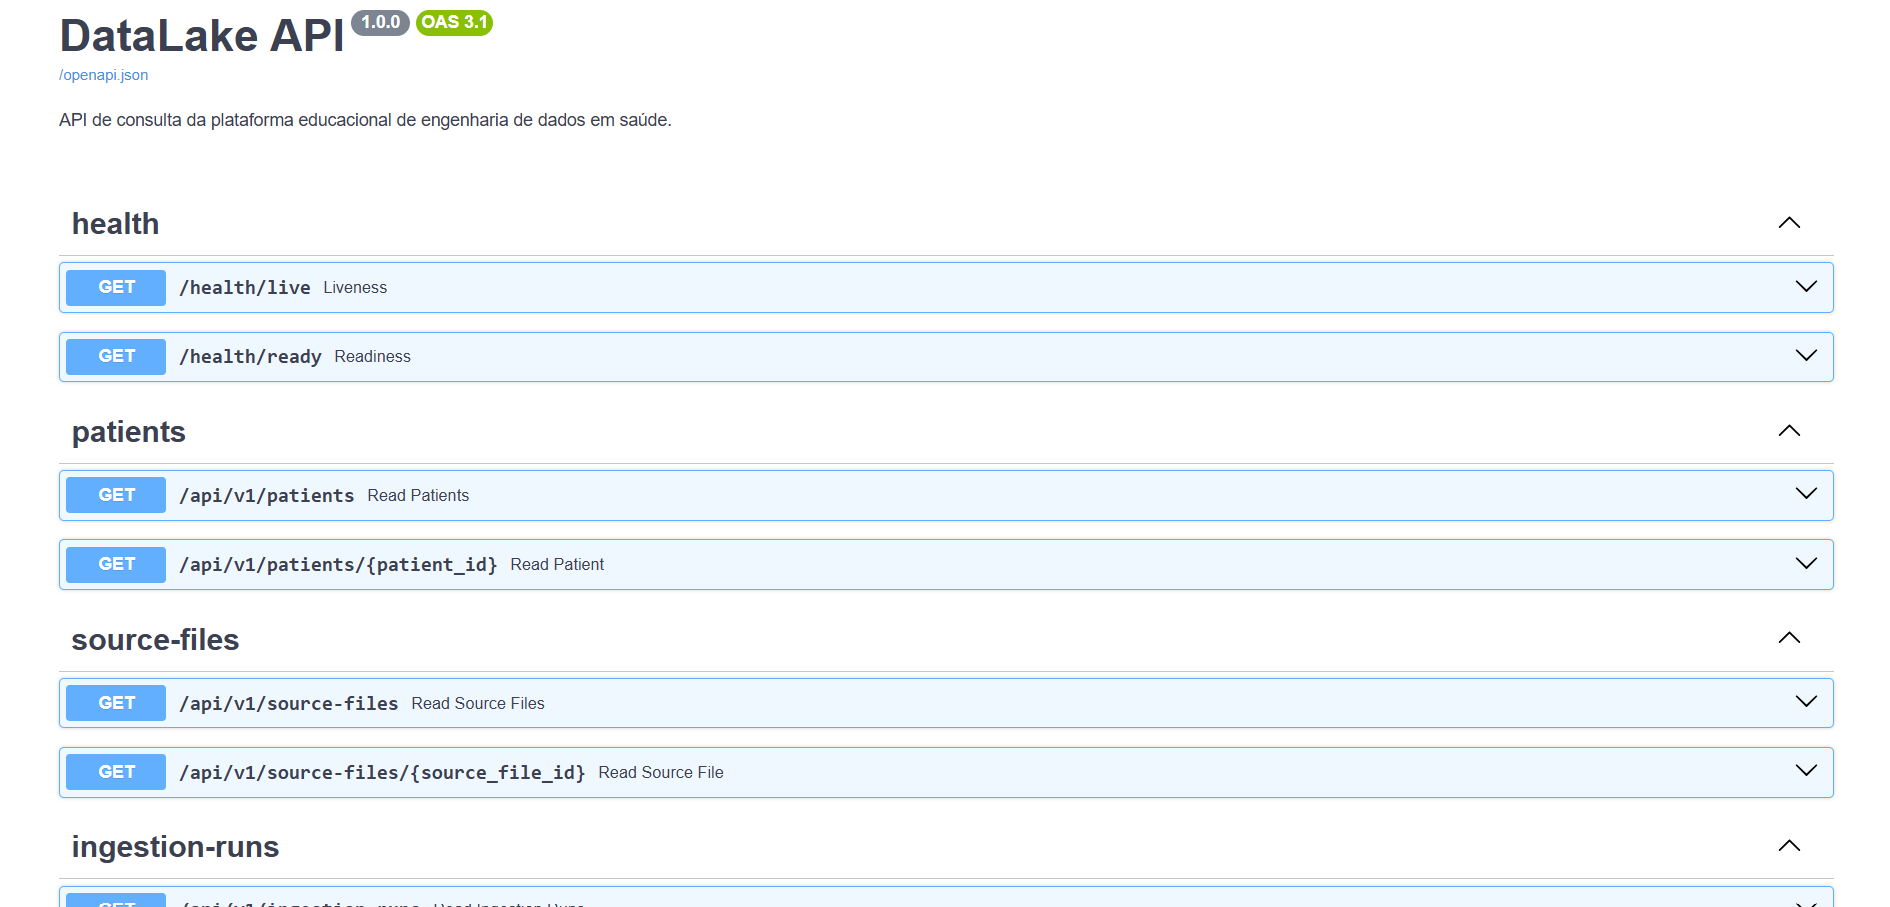
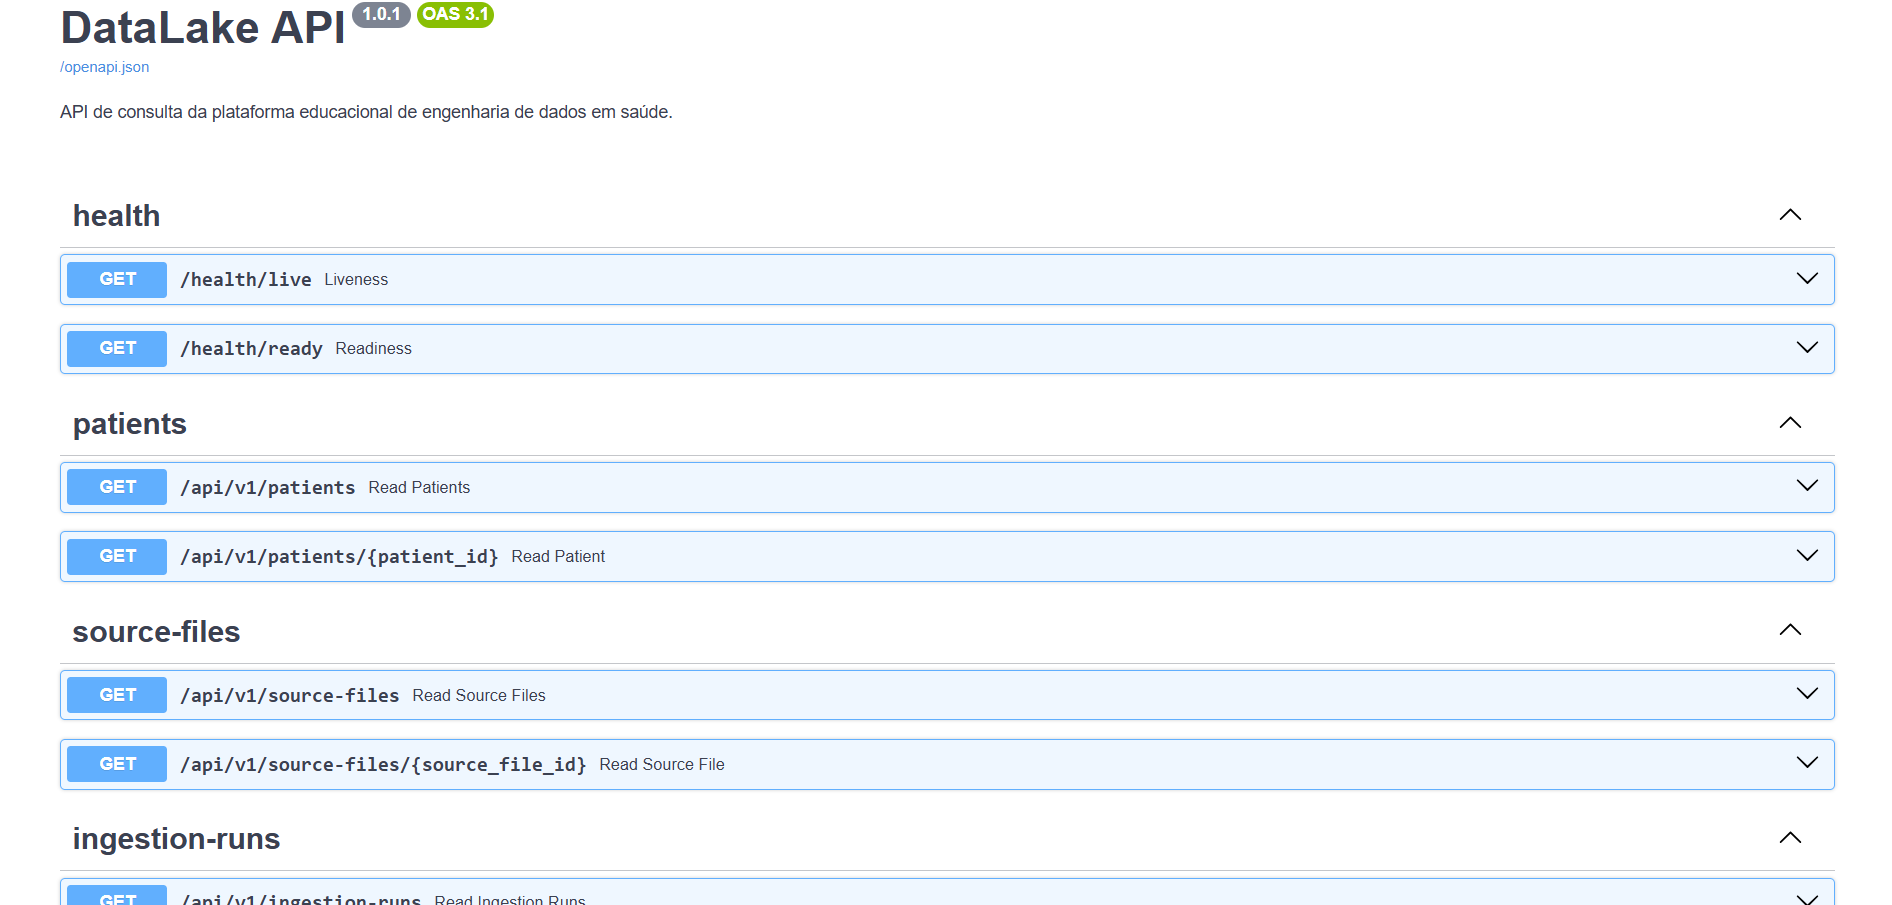
fix: finalize DataLake v1.0.1 maintenance

diff --git a/tests/conftest.py b/tests/conftest.py
@@ -16,7 +16,7 @@ from alembic import command
 PROJECT_ROOT = Path(__file__).resolve().parents[1]
 
 
-class TestDatabaseSettings(BaseSettings):
+class DatabaseTestSettings(BaseSettings):
     """Configurações exclusivas do banco de testes."""
 
     model_config = SettingsConfigDict(
@@ -46,8 +46,8 @@ class TestDatabaseSettings(BaseSettings):
 
 
 @pytest.fixture(scope="session")
-def test_database_settings() -> TestDatabaseSettings:
-    settings = TestDatabaseSettings()
+def test_database_settings() -> DatabaseTestSettings:
+    settings = DatabaseTestSettings()
 
     database_name = settings.postgres_db.lower()
 
@@ -62,7 +62,7 @@ def test_database_settings() -> TestDatabaseSettings:
 
 @pytest.fixture(scope="session")
 def test_engine(
-    test_database_settings: TestDatabaseSettings,
+    test_database_settings: DatabaseTestSettings,
 ) -> Iterator[Engine]:
     engine = create_engine(
         test_database_settings.database_url,

diff --git a/tests/migrations/test_migrations.py b/tests/migrations/test_migrations.py
@@ -12,7 +12,7 @@ from sqlalchemy import (
 
 from alembic import command
 from tests.conftest import (
-    TestDatabaseSettings,
+    DatabaseTestSettings,
 )
 
 PROJECT_ROOT = Path(__file__).resolve().parents[2]
@@ -21,7 +21,7 @@ PROJECT_ROOT = Path(__file__).resolve().parents[2]
 @pytest.mark.migration
 @pytest.mark.integration
 def test_migrations_upgrade_downgrade_and_upgrade(
-    test_database_settings: TestDatabaseSettings,
+    test_database_settings: DatabaseTestSettings,
 ) -> None:
     database_name = f"datalake_migration_{uuid4().hex[:12]}"
 

diff --git a/README.md b/README.md
@@ -202,11 +202,12 @@ Os relatórios locais são gravados em `data/rejected`, e os problemas persistid
 
 A API é somente leitura e publica contratos tipados, validação de parâmetros, paginação, filtros e respostas de erro padronizadas.
 
-Documentação interativa:
+### Swagger UI
 
-A API disponibiliza documentação interativa por meio do Swagger UI.
+A API possui documentação interativa gerada automaticamente pelo FastAPI.
 
-- ![Swagger UI da API DataLake v1.0.0](docs/images/swagger-ui.png)
+![Swagger UI do DataLake](docs/images/swagger-ui.png)
+
 - [ReDoc](http://localhost:8000/redoc);
 - [OpenAPI](http://localhost:8000/openapi.json).
 

diff --git a/CHANGELOG.md b/CHANGELOG.md
@@ -13,6 +13,19 @@ Todas as alterações relevantes do DataLake são registradas neste arquivo.
 - observabilidade;
 - processamento assíncrono.
 
+## [1.0.1] — 2026
+
+### Corrigido
+
+- atualização de `actions/upload-artifact` para a versão 7;
+- remoção do aviso de coleta da classe auxiliar de configuração do Pytest;
+- atualização da evidência visual da Swagger UI.
+
+### Observação
+
+Esta versão é exclusivamente de manutenção e não altera o contrato
+funcional da aplicação.
+
 ## [1.0.0] — 2026
 
 ### Marco
